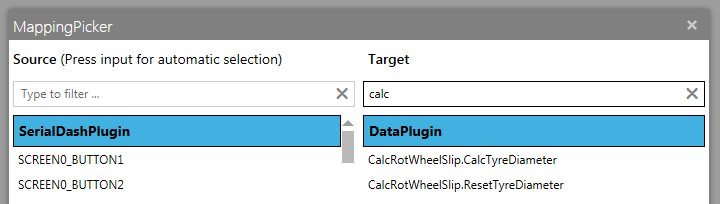
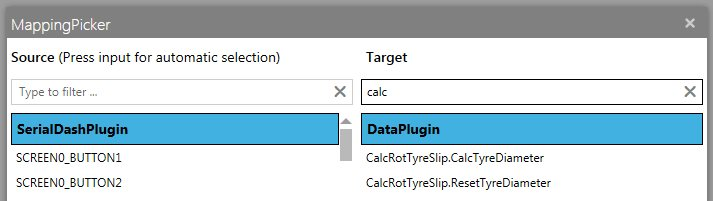
Replaced Wheel by Tyre everywhere

diff --git a/SettingsControl.xaml b/SettingsControl.xaml
@@ -3,8 +3,8 @@
     xmlns:x="http://schemas.microsoft.com/winfx/2006/xaml"
     xmlns:mc="http://schemas.openxmlformats.org/markup-compatibility/2006" 
     xmlns:d="http://schemas.microsoft.com/expression/blend/2008" 
-    xmlns:local="clr-namespace:Viper.PluginCalcRotWheelSlip"
-    xmlns:styles="clr-namespace:SimHub.Plugins.Styles;assembly=SimHub.Plugins" xmlns:Custom="http://metro.mahapps.com/winfx/xaml/controls" x:Class="Viper.PluginCalcRotWheelSlip.SettingsControl"
+    xmlns:local="clr-namespace:Viper.PluginCalcRotTyreSlip"
+    xmlns:styles="clr-namespace:SimHub.Plugins.Styles;assembly=SimHub.Plugins" xmlns:Custom="http://metro.mahapps.com/winfx/xaml/controls" x:Class="Viper.PluginCalcRotTyreSlip.SettingsControl"
     mc:Ignorable="d" 
     d:DesignHeight="650" d:DesignWidth="400">
     <Grid>
@@ -37,7 +37,7 @@
                     <Custom:NumericUpDown x:Name="Vel" Margin="38,11,38,12" Grid.Column="1" Grid.Row="3" ValueChanged="Vel_ValueChanged" Interval="0.0001" Minimum="0.0001" Maximum="0.0099"/>
                 </Grid>
                 <TextBlock TextWrapping="Wrap" Text="Plugin Description" FontWeight="Bold" Margin="0,0,0,5"/>
-                <TextBlock Height="196" TextWrapping="Wrap" Text="This plugin first calculates your car's tyre diameters by using the Tyre RPS and Car Speed. &#xA;These values are saved and then used to calculate the rotational Tyre Slips.&#xA;+1.0 = 100% Tyre Lock&#xA;   0 = no Tyre Slip&#xA;-1.0 = 100% Tyre Spin = The tyre rotates at least twice the speed of the corresponding vehicle speed.&#xA;All the new values are available as properties CalcRotWheelSlip.*&#xA;Further there are 2 new controller actions available for manual overriding the tyre diameter detection and to reset the automatic detection (named CalcRotWheelSlip.*)" Foreground="{DynamicResource BlackBrush}" Background="{x:Null}"/>
+                <TextBlock Height="196" TextWrapping="Wrap" Text="This plugin first calculates your car's tyre diameters by using the Tyre RPS and Car Speed. &#xA;These values are saved and then used to calculate the rotational Tyre Slips.&#xA;+1.0 = 100% Tyre Lock&#xA;   0 = no Tyre Slip&#xA;-1.0 = 100% Tyre Spin = The tyre rotates at least twice the speed of the corresponding vehicle speed.&#xA;All the new values are available as properties CalcRotTyreSlip.*&#xA;Further there are 2 new controller actions available for manual overriding the tyre diameter detection and to reset the automatic detection (named CalcRotTyreSlip.*)" Foreground="{DynamicResource BlackBrush}" Background="{x:Null}"/>
                 
 
             </StackPanel>

diff --git a/PluginCalcRotWheelSlip.cs b/PluginCalcRotWheelSlip.cs
@@ -7,7 +7,7 @@ using Newtonsoft.Json.Linq; // Needed for JObject
 using System.IO;    // Need for read/write JSON settings file
 using SimHub;   // Needed for Logging
 
-namespace Viper.PluginCalcRotWheelSlip
+namespace Viper.PluginCalcRotTyreSlip
 {
     [PluginName("Calculate Rotational Tyre Slip 1.0")]
     [PluginDescrition("Calculates Tyre Slip by the relationship between Tyre RPS and Car Speed. Perfect for analyzing your Throttle and Brake input and TC/ABS settings\nFor Project CARS 2 and R3E only")]
@@ -76,15 +76,15 @@ namespace Viper.PluginCalcRotWheelSlip
                     {
                         TyreDiameterCalculated = false;
                         reset = false;
-                        pluginManager.SetPropertyValue("CalcRotWheelSlip.TyreDiameterComputed", this.GetType(), false);
-                        pluginManager.SetPropertyValue("CalcRotWheelSlip.Computed.TyreDiameter_FL", this.GetType(), "-");
-                        pluginManager.SetPropertyValue("CalcRotWheelSlip.Computed.TyreDiameter_FR", this.GetType(), "-");
-                        pluginManager.SetPropertyValue("CalcRotWheelSlip.Computed.TyreDiameter_RL", this.GetType(), "-");
-                        pluginManager.SetPropertyValue("CalcRotWheelSlip.Computed.TyreDiameter_RR", this.GetType(), "-");
-                        pluginManager.SetPropertyValue("CalcRotWheelSlip.Computed.RotTyreSlip_FL", this.GetType(), 0);
-                        pluginManager.SetPropertyValue("CalcRotWheelSlip.Computed.RotTyreSlip_FR", this.GetType(), 0);
-                        pluginManager.SetPropertyValue("CalcRotWheelSlip.Computed.RotTyreSlip_RL", this.GetType(), 0);
-                        pluginManager.SetPropertyValue("CalcRotWheelSlip.Computed.RotTyreSlip_RR", this.GetType(), 0);
+                        pluginManager.SetPropertyValue("CalcRotTyreSlip.TyreDiameterComputed", this.GetType(), false);
+                        pluginManager.SetPropertyValue("CalcRotTyreSlip.Computed.TyreDiameter_FL", this.GetType(), "-");
+                        pluginManager.SetPropertyValue("CalcRotTyreSlip.Computed.TyreDiameter_FR", this.GetType(), "-");
+                        pluginManager.SetPropertyValue("CalcRotTyreSlip.Computed.TyreDiameter_RL", this.GetType(), "-");
+                        pluginManager.SetPropertyValue("CalcRotTyreSlip.Computed.TyreDiameter_RR", this.GetType(), "-");
+                        pluginManager.SetPropertyValue("CalcRotTyreSlip.Computed.RotTyreSlip_FL", this.GetType(), 0);
+                        pluginManager.SetPropertyValue("CalcRotTyreSlip.Computed.RotTyreSlip_FR", this.GetType(), 0);
+                        pluginManager.SetPropertyValue("CalcRotTyreSlip.Computed.RotTyreSlip_RL", this.GetType(), 0);
+                        pluginManager.SetPropertyValue("CalcRotTyreSlip.Computed.RotTyreSlip_RR", this.GetType(), 0);
                     }
                     
                     // calculate Tyre Diameter automatic (Speed > 20 km/h, Brake and Throttle = 0) or on manual Override 
@@ -99,14 +99,14 @@ namespace Viper.PluginCalcRotWheelSlip
                                 TyreDiameter[i] = Speedms / TyreRPS[i] * 2;
                             }
                         }
-                        pluginManager.SetPropertyValue("CalcRotWheelSlip.Computed.TyreDiameter_FL", this.GetType(), TyreDiameter[0]);
-                        pluginManager.SetPropertyValue("CalcRotWheelSlip.Computed.TyreDiameter_FR", this.GetType(), TyreDiameter[1]);
-                        pluginManager.SetPropertyValue("CalcRotWheelSlip.Computed.TyreDiameter_RL", this.GetType(), TyreDiameter[2]);
-                        pluginManager.SetPropertyValue("CalcRotWheelSlip.Computed.TyreDiameter_RR", this.GetType(), TyreDiameter[3]);
+                        pluginManager.SetPropertyValue("CalcRotTyreSlip.Computed.TyreDiameter_FL", this.GetType(), TyreDiameter[0]);
+                        pluginManager.SetPropertyValue("CalcRotTyreSlip.Computed.TyreDiameter_FR", this.GetType(), TyreDiameter[1]);
+                        pluginManager.SetPropertyValue("CalcRotTyreSlip.Computed.TyreDiameter_RL", this.GetType(), TyreDiameter[2]);
+                        pluginManager.SetPropertyValue("CalcRotTyreSlip.Computed.TyreDiameter_RR", this.GetType(), TyreDiameter[3]);
 
                         TyreDiameterCalculated = true;
                         manualOverride = false;
-                        pluginManager.SetPropertyValue("CalcRotWheelSlip.TyreDiameterComputed", this.GetType(), true);
+                        pluginManager.SetPropertyValue("CalcRotTyreSlip.TyreDiameterComputed", this.GetType(), true);
                     }
 
                     // calculate Tyre Lock / Spin
@@ -157,10 +157,10 @@ namespace Viper.PluginCalcRotWheelSlip
                             }
                             
                         }
-                        pluginManager.SetPropertyValue("CalcRotWheelSlip.Computed.RotTyreSlip_FL", this.GetType(), RotTyreSlip[0]);
-                        pluginManager.SetPropertyValue("CalcRotWheelSlip.Computed.RotTyreSlip_FR", this.GetType(), RotTyreSlip[1]);
-                        pluginManager.SetPropertyValue("CalcRotWheelSlip.Computed.RotTyreSlip_RL", this.GetType(), RotTyreSlip[2]);
-                        pluginManager.SetPropertyValue("CalcRotWheelSlip.Computed.RotTyreSlip_RR", this.GetType(), RotTyreSlip[3]);
+                        pluginManager.SetPropertyValue("CalcRotTyreSlip.Computed.RotTyreSlip_FL", this.GetType(), RotTyreSlip[0]);
+                        pluginManager.SetPropertyValue("CalcRotTyreSlip.Computed.RotTyreSlip_FR", this.GetType(), RotTyreSlip[1]);
+                        pluginManager.SetPropertyValue("CalcRotTyreSlip.Computed.RotTyreSlip_RL", this.GetType(), RotTyreSlip[2]);
+                        pluginManager.SetPropertyValue("CalcRotTyreSlip.Computed.RotTyreSlip_RR", this.GetType(), RotTyreSlip[3]);
                     }
                 }
 
@@ -199,7 +199,7 @@ namespace Viper.PluginCalcRotWheelSlip
         public void Init(PluginManager pluginManager)
         {
             // set path/filename for settings file
-            AccData.path = PluginManager.GetCommonStoragePath("Viper.PluginCalcRotWheelSlip.json");
+            AccData.path = PluginManager.GetCommonStoragePath("Viper.PluginCalcRotTyreSlip.json");
             
             // try to read settings file
             try
@@ -209,7 +209,7 @@ namespace Viper.PluginCalcRotWheelSlip
                 AccData.Brake = (int)JSONdata["Brake_max"];
                 AccData.Throttle = (int)JSONdata["Throttle_max"];
                 AccData.Vel = (double)JSONdata["VelX_max"];
-                Logging.Current.Info("Plugin Viper.PluginCalcRotWheelSlip - Settings file " + System.Environment.CurrentDirectory + "\\" + AccData.path + " loaded.");
+                Logging.Current.Info("Plugin Viper.PluginCalcRotTyreSlip - Settings file " + System.Environment.CurrentDirectory + "\\" + AccData.path + " loaded.");
             }
             // if there is no settings file, use the following defaults
             catch
@@ -218,28 +218,28 @@ namespace Viper.PluginCalcRotWheelSlip
                 AccData.Brake = 0;
                 AccData.Throttle = 5;
                 AccData.Vel = 0.001;
-                Logging.Current.Info("Plugin Viper.PluginCalcRotWheelSlip - Default settings loaded.");
+                Logging.Current.Info("Plugin Viper.PluginCalcRotTyreSlip - Default settings loaded.");
             }
             
             
-            pluginManager.AddProperty("CalcRotWheelSlip.Computed.RotTyreSlip_FL", this.GetType(), 0);
-            pluginManager.AddProperty("CalcRotWheelSlip.Computed.RotTyreSlip_FR", this.GetType(), 0);
-            pluginManager.AddProperty("CalcRotWheelSlip.Computed.RotTyreSlip_RL", this.GetType(), 0);
-            pluginManager.AddProperty("CalcRotWheelSlip.Computed.RotTyreSlip_RR", this.GetType(), 0);
+            pluginManager.AddProperty("CalcRotTyreSlip.Computed.RotTyreSlip_FL", this.GetType(), 0);
+            pluginManager.AddProperty("CalcRotTyreSlip.Computed.RotTyreSlip_FR", this.GetType(), 0);
+            pluginManager.AddProperty("CalcRotTyreSlip.Computed.RotTyreSlip_RL", this.GetType(), 0);
+            pluginManager.AddProperty("CalcRotTyreSlip.Computed.RotTyreSlip_RR", this.GetType(), 0);
 
-            pluginManager.AddProperty("CalcRotWheelSlip.Computed.TyreDiameter_FL", this.GetType(), "-");
-            pluginManager.AddProperty("CalcRotWheelSlip.Computed.TyreDiameter_FR", this.GetType(), "-");
-            pluginManager.AddProperty("CalcRotWheelSlip.Computed.TyreDiameter_RL", this.GetType(), "-");
-            pluginManager.AddProperty("CalcRotWheelSlip.Computed.TyreDiameter_RR", this.GetType(), "-");
+            pluginManager.AddProperty("CalcRotTyreSlip.Computed.TyreDiameter_FL", this.GetType(), "-");
+            pluginManager.AddProperty("CalcRotTyreSlip.Computed.TyreDiameter_FR", this.GetType(), "-");
+            pluginManager.AddProperty("CalcRotTyreSlip.Computed.TyreDiameter_RL", this.GetType(), "-");
+            pluginManager.AddProperty("CalcRotTyreSlip.Computed.TyreDiameter_RR", this.GetType(), "-");
 
-            pluginManager.AddProperty("CalcRotWheelSlip.TyreDiameterComputed", this.GetType(), false);
+            pluginManager.AddProperty("CalcRotTyreSlip.TyreDiameterComputed", this.GetType(), false);
 
-            pluginManager.AddAction("CalcRotWheelSlip.CalcTyreDiameter", this.GetType(), (a, b) =>
+            pluginManager.AddAction("CalcRotTyreSlip.CalcTyreDiameter", this.GetType(), (a, b) =>
             {
                 this.manualOverride = true;
             });
             
-            pluginManager.AddAction("CalcRotWheelSlip.ResetTyreDiameter", this.GetType(), (a, b) =>
+            pluginManager.AddAction("CalcRotTyreSlip.ResetTyreDiameter", this.GetType(), (a, b) =>
             {
                 this.reset = true;
             });

diff --git a/SettingsControl.xaml.cs b/SettingsControl.xaml.cs
@@ -16,7 +16,7 @@ using Newtonsoft.Json.Linq; // Needed for JObject
 using System.IO;    // Needed for read/write JSON settings file
 using SimHub;   // Needed for Logging
 
-namespace Viper.PluginCalcRotWheelSlip
+namespace Viper.PluginCalcRotTyreSlip
 {
     /// <summary>
     /// Logique d'interaction pour SettingsControlDemo.xaml
@@ -93,13 +93,13 @@ namespace Viper.PluginCalcRotWheelSlip
                     {
                         // create/write settings file
                         File.WriteAllText(@AccData.path, JSONdata.ToString());
-                        Logging.Current.Info("Plugin Viper.PluginCalcRotWheelSlip - Settings file saved to : " + System.Environment.CurrentDirectory + "\\" + AccData.path);
+                        Logging.Current.Info("Plugin Viper.PluginCalcRotTyreSlip - Settings file saved to : " + System.Environment.CurrentDirectory + "\\" + AccData.path);
                     }
                     catch
                     {
                         //A MessageBox creates graphical glitches after closing it. Search another way, maybe using the Standard Log in SimHub\Logs
                         //MessageBox.Show("Cannot create or write the following file: \n" + System.Environment.CurrentDirectory + "\\" + AccData.path, "Error", MessageBoxButton.OK, MessageBoxImage.Error);
-                        Logging.Current.Error("Plugin Viper.PluginCalcRotWheelSlip - Cannot create or write settings file: " + System.Environment.CurrentDirectory + "\\" + AccData.path);
+                        Logging.Current.Error("Plugin Viper.PluginCalcRotTyreSlip - Cannot create or write settings file: " + System.Environment.CurrentDirectory + "\\" + AccData.path);
 
 
                     }

diff --git a/Properties/AssemblyInfo.cs b/Properties/AssemblyInfo.cs
@@ -5,11 +5,11 @@ using System.Runtime.InteropServices;
 // Les informations générales relatives à un assembly dépendent de 
 // l'ensemble d'attributs suivant. Changez les valeurs de ces attributs pour modifier les informations
 // associées à un assembly.
-[assembly: AssemblyTitle("Viper.PluginCalcRotWheelSlip")]
+[assembly: AssemblyTitle("Viper.PluginCalcRotTyreSlip")]
 [assembly: AssemblyDescription("Calculates Tyre Slip by Tyre Rotation")]
 [assembly: AssemblyConfiguration("")]
 [assembly: AssemblyCompany("")]
-[assembly: AssemblyProduct("Viper.PluginCalcRotWheelSlip")]
+[assembly: AssemblyProduct("Viper.PluginCalcRotTyreSlip")]
 [assembly: AssemblyCopyright("Copyright ©  2019")]
 [assembly: AssemblyTrademark("")]
 [assembly: AssemblyCulture("")]
